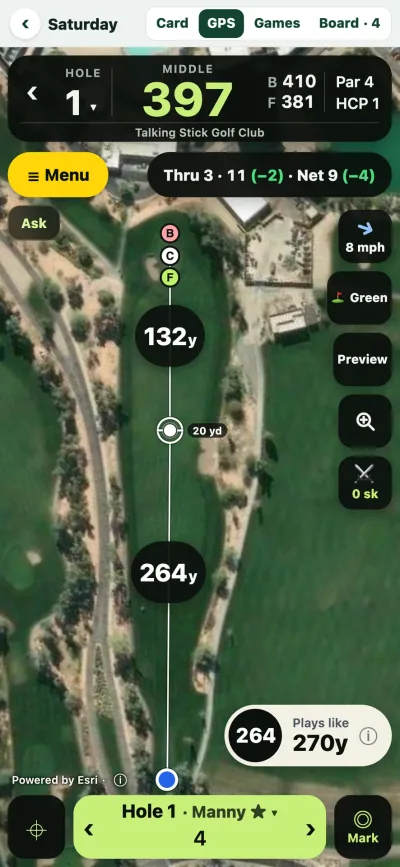
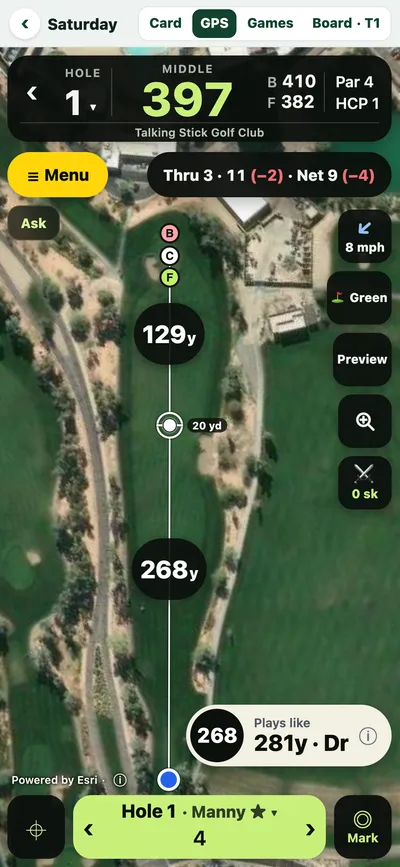
site pictures: 2.0.8 captures replace the old green slope and the green under-par pills (gps, hazards, plays-like, green-size, ask-caddie, group-scoring; ADVISOR-20261115-1643)
Seven cards on hardpan-home.html showed pre-2.0.8 screens: the old blocky slope with the target ring over the arrows, and
under-par to-par numbers in green. Under par is red (#ff6b76 in the GPS pill), even / over par the pill's own colour.
- green-slope, green-size: the 2.0.8 (1) store shoot raws (iPhone Simulator; Papago 10 from 55 with the smooth slope and
  the ring hidden; Papago 14 with the green size line, Slope on), resized to 940 / 400.
- gps, hazards, plays-like, ask-caddie, group-scoring: the same scenes as the Nov 13 pictures, rendered by the 2.0.8 tree
  (release-208 fa176a69) in headless Chrome 390x844 @3x with the Chrome tests' stubs (0 writes); hazards from the real
  GolfAPI record for Talking Stick Piipaash.
- Same file names, same widths and pixel sizes; alt texts say what the pictures show; media/screens/manifest.json entries
  updated with the old entry kept under "previous".
- web_e_features_test.js: the hazards / ask-caddie provenance pin accepts release-208 (re-pinned, dated).
Tests (final files): hardpan_home_52a 7/0, marketing_home 46/0, web_d_homepage_root 112/0, web_e_features 24/0,
web_e_features_chrome 6/0, web_d_clip_hold_chrome 3/0, web_d_returning_visitor_chrome 4/0.

diff --git a/hardpan-home.html b/hardpan-home.html
@@ -332,14 +332,14 @@
     <div class="grp" id="g-new">
         <div class="ghd"><h2>New in 2.0.7</h2><span class="gn">4 &middot; swipe &rarr;</span><span class="arrows"><button type="button" class="ga" data-dir="-1" aria-label="New in 2.0.7: earlier cards">&lsaquo;</button><button type="button" class="ga" data-dir="1" aria-label="New in 2.0.7: more cards">&rsaquo;</button></span></div>
         <p class="gln">What changed in this update.</p>
-        <ul class="row" aria-label="New in 2.0.7 features"><li class="fc" id="f-round-tabs" data-key="round-tabs"><div class="cap"><span class="eb">ROUND TABS</span><h3>Card, GPS, Games, Board.</h3><p>Four tabs on top of every round. The map opens on the whole hole.</p></div><button type="button" class="ph" data-open="round-tabs" aria-label="See Card, GPS, Games, Board full screen"><span class="s"><img src="/media/screens/round-tabs-400.webp" srcset="/media/screens/round-tabs-400.webp 400w, /media/screens/round-tabs-940.webp 940w" sizes="(max-width:700px) 200px, 206px" width="940" height="2040" loading="lazy" decoding="async" alt="The GPS map on hole 2 at Papago, opened on the whole hole with the tee and the green both on screen: 380 to the middle, and the Card, GPS, Games and Board tabs on top."></span></button></li><li class="fc" id="f-green-slope" data-key="green-slope"><div class="cap"><span class="eb">GREEN SLOPE</span><h3>Read the green.</h3><p>Shading, contours and downhill arrows on the map, with the Slope switch under Ask.</p></div><button type="button" class="ph" data-open="green-slope" aria-label="See Read the green full screen"><span class="s"><img src="/media/screens/green-slope-400.webp" srcset="/media/screens/green-slope-400.webp 400w, /media/screens/green-slope-940.webp 940w" sizes="(max-width:700px) 200px, 206px" width="940" height="2040" loading="lazy" decoding="async" alt="Papago hole 10 near the green with Slope on: shading and contours on the green, arrows that run downhill, 55 to the middle, and the Slope switch under Ask."></span></button></li><li class="fc" id="f-green-size" data-key="green-size"><div class="cap"><span class="eb">GREEN SIZE</span><h3>How big is the green?</h3><p>Deep and wide along your line of play, the same from the tee or the fairway.</p></div><button type="button" class="ph" data-open="green-size" aria-label="See How big is the green? full screen"><span class="s"><img src="/media/screens/green-size-400.webp" srcset="/media/screens/green-size-400.webp 400w, /media/screens/green-size-940.webp 940w" sizes="(max-width:700px) 200px, 206px" width="940" height="2040" loading="lazy" decoding="async" alt="Papago hole 14, 149 to the middle: the line Green 34 yds deep and 27 yds wide on the map, and Plays like 156 with an 8-iron."></span></button></li><li class="fc" id="f-team-card" data-key="team-card"><div class="cap"><span class="eb">TEAM CARD</span><h3>Your team card, in the app.</h3><p>Card, Board and GPS on one card. Scan your team’s QR right in HardPan.</p></div><button type="button" class="ph" data-open="team-card" aria-label="See Your team card, in the app full screen"><span class="s"><img src="/media/screens/team-card-400.webp" srcset="/media/screens/team-card-400.webp 400w, /media/screens/team-card-940.webp 940w" sizes="(max-width:700px) 200px, 206px" width="940" height="2040" loading="lazy" decoding="async" alt="The Desert Classic team card for Team 4 in the app: the Card, Board and GPS switch, Hole 8 · Par 5 next to play, the team score with minus and plus, and Save · Next hole."></span></button></li></ul>
+        <ul class="row" aria-label="New in 2.0.7 features"><li class="fc" id="f-round-tabs" data-key="round-tabs"><div class="cap"><span class="eb">ROUND TABS</span><h3>Card, GPS, Games, Board.</h3><p>Four tabs on top of every round. The map opens on the whole hole.</p></div><button type="button" class="ph" data-open="round-tabs" aria-label="See Card, GPS, Games, Board full screen"><span class="s"><img src="/media/screens/round-tabs-400.webp" srcset="/media/screens/round-tabs-400.webp 400w, /media/screens/round-tabs-940.webp 940w" sizes="(max-width:700px) 200px, 206px" width="940" height="2040" loading="lazy" decoding="async" alt="The GPS map on hole 2 at Papago, opened on the whole hole with the tee and the green both on screen: 380 to the middle, and the Card, GPS, Games and Board tabs on top."></span></button></li><li class="fc" id="f-green-slope" data-key="green-slope"><div class="cap"><span class="eb">GREEN SLOPE</span><h3>Read the green.</h3><p>Shading, contours and downhill arrows on the map, with the Slope switch under Ask.</p></div><button type="button" class="ph" data-open="green-slope" aria-label="See Read the green full screen"><span class="s"><img src="/media/screens/green-slope-400.webp" srcset="/media/screens/green-slope-400.webp 400w, /media/screens/green-slope-940.webp 940w" sizes="(max-width:700px) 200px, 206px" width="940" height="2040" loading="lazy" decoding="async" alt="Papago hole 10, 55 to the middle, with Slope on: smooth shading, contour lines and downhill arrows over the green, the target ring hidden, the lidar 2020–21 tag and the slope key under the Slope switch, and Thru 9 · 38 (+2) · Net 35 (−1) with the under-par number in red."></span></button></li><li class="fc" id="f-green-size" data-key="green-size"><div class="cap"><span class="eb">GREEN SIZE</span><h3>How big is the green?</h3><p>Deep and wide along your line of play, the same from the tee or the fairway.</p></div><button type="button" class="ph" data-open="green-size" aria-label="See How big is the green? full screen"><span class="s"><img src="/media/screens/green-size-400.webp" srcset="/media/screens/green-size-400.webp 400w, /media/screens/green-size-940.webp 940w" sizes="(max-width:700px) 200px, 206px" width="940" height="2040" loading="lazy" decoding="async" alt="Papago hole 14, 149 to the middle: the line Green 34 yds deep and 27 yds wide on the map, Plays like 153 with an 8-iron, the club chips, Slope on, and Net 51 (−1) in red."></span></button></li><li class="fc" id="f-team-card" data-key="team-card"><div class="cap"><span class="eb">TEAM CARD</span><h3>Your team card, in the app.</h3><p>Card, Board and GPS on one card. Scan your team’s QR right in HardPan.</p></div><button type="button" class="ph" data-open="team-card" aria-label="See Your team card, in the app full screen"><span class="s"><img src="/media/screens/team-card-400.webp" srcset="/media/screens/team-card-400.webp 400w, /media/screens/team-card-940.webp 940w" sizes="(max-width:700px) 200px, 206px" width="940" height="2040" loading="lazy" decoding="async" alt="The Desert Classic team card for Team 4 in the app: the Card, Board and GPS switch, Hole 8 · Par 5 next to play, the team score with minus and plus, and Save · Next hole."></span></button></li></ul>
         <div class="dots" aria-hidden="true"><i class="on"></i><i></i><i></i><i></i></div>
         <ul class="new207" aria-label="Also new in 2.0.7"><li><b>Why?</b> on the suggested fair game: the strokes, the handicaps and the game it is built on.</li><li><b>Undo</b> on the scorecard, right after each score.</li><li>A <b>Season board</b> for your weekly group, on Home.</li><li><b>Play in this event</b> on the card of an event you run.</li><li>The Home card names the course and the next hole.</li></ul>
     </div>
     <div class="grp" id="g-play">
         <div class="ghd"><h2>Play</h2><span class="gn">6 &middot; swipe &rarr;</span><span class="arrows"><button type="button" class="ga" data-dir="-1" aria-label="Play: earlier cards">&lsaquo;</button><button type="button" class="ga" data-dir="1" aria-label="Play: more cards">&rsaquo;</button></span></div>
         <p class="gln">GPS that knows the course, and your clubs.</p>
-        <ul class="row" aria-label="Play features"><li class="fc" id="f-gps" data-key="gps"><div class="cap"><span class="eb">GPS</span> <span class="clipchip">&#9654; clip 0:03</span><h3>Every yard. Every hole.</h3><p>Front, middle and back of every green on a real satellite map.</p></div><button type="button" class="ph" data-open="gps" aria-label="See Every yard. Every hole full screen"><span class="s clipslot"><img src="/media/screens/gps-400.webp" srcset="/media/screens/gps-400.webp 400w, /media/screens/gps-886.webp 886w" sizes="(max-width:700px) 200px, 206px" width="886" height="1920" loading="lazy" decoding="async" alt="The HardPan GPS map on hole 1 at Talking Stick, the whole hole from the tee: 397 yards to the middle of the green with the back and front numbers, and Card, GPS, Games and Board tabs on top."><video muted playsinline preload="none" data-src="/media/clips/gps.mp4" aria-hidden="true"></video><span class="cb">&#9654; 0:03</span></span></button></li><li class="fc" id="f-plays-like" data-key="plays-like"><div class="cap"><span class="eb">PLAYS LIKE</span><h3>Hit the number it plays.</h3><p>Wind and elevation in one yardage, plus an aim tip from your own misses.</p></div><button type="button" class="ph" data-open="plays-like" aria-label="See Hit the number it plays full screen"><span class="s"><img src="/media/screens/plays-like-400.webp" srcset="/media/screens/plays-like-400.webp 400w, /media/screens/plays-like-940.webp 940w" sizes="(max-width:700px) 200px, 206px" width="940" height="2040" loading="lazy" decoding="async" alt="The GPS map on hole 2 at Dobson Ranch: 140 to the middle, Plays like 140 with a 9-iron and the aim tip 8 yards left, the green’s size line, and the Slope switch under Ask."></span></button></li><li class="fc" id="f-hazards" data-key="hazards"><div class="cap"><span class="eb">HAZARDS</span><h3>Know what you can carry.</h3><p>Reach and carry for every bunker, and where to lay up, from where you stand.</p></div><button type="button" class="ph" data-open="hazards" aria-label="See Know what you can carry full screen"><span class="s"><img src="/media/screens/hazards-400.webp" srcset="/media/screens/hazards-400.webp 400w, /media/screens/hazards-1170.webp 1170w" sizes="(max-width:700px) 200px, 206px" width="1170" height="2532" loading="lazy" decoding="async" alt="The Hazards sheet on hole 1 at Talking Stick, over the GPS map: reach and carry yards for the bunker left and the water right, and lay-up distances with a club for each."></span></button></li><li class="fc" id="f-best-miss" data-key="best-miss"><div class="cap"><span class="eb">BEST MISS</span><h3>Miss on the right side.</h3><p>Green slope from lidar, and the safe side to miss.</p></div><button type="button" class="ph" data-open="best-miss" aria-label="See Miss on the right side full screen"><span class="s"><img src="/media/screens/best-miss-400.webp" srcset="/media/screens/best-miss-400.webp 400w, /media/screens/best-miss-940.webp 940w" sizes="(max-width:700px) 200px, 206px" width="940" height="2040" loading="lazy" decoding="async" alt="The GPS map on Papago’s first green with Slope on: the green’s slope arrows and shading, 41 to the middle, carry bunker 43, and Best miss: right."></span></button></li><li class="fc" id="f-offline" data-key="offline"><div class="cap"><span class="eb">OFFLINE MAPS</span><h3>No signal? Still every yard.</h3><p>Save a course before you go. The map works with zero bars.</p></div><button type="button" class="ph" data-open="offline" aria-label="See No signal? Still every yard full screen"><span class="s"><img src="/media/screens/offline-400.webp" srcset="/media/screens/offline-400.webp 400w, /media/screens/offline-780.webp 780w" sizes="(max-width:700px) 200px, 206px" width="780" height="1704" loading="lazy" decoding="async" alt="The course picker with a Download for offline button for Dobson Ranch Golf Course."></span></button></li><li class="fc" id="f-bag" data-key="my-bag"><div class="cap"><span class="eb">MY BAG</span><h3>Your real carries.</h3><p>Type your yardages once. HardPan picks the club from them.</p></div><button type="button" class="ph" data-open="my-bag" aria-label="See Your real carries full screen"><span class="s"><img src="/media/screens/my-bag-400.webp" srcset="/media/screens/my-bag-400.webp 400w, /media/screens/my-bag-1170.webp 1170w" sizes="(max-width:700px) 200px, 206px" width="1170" height="2532" loading="lazy" decoding="async" alt="My bag for Sam: a carry yardage for each club, Driver 245, 3-wood 225, 5-wood 210, with a switch to keep each club in the bag and Type my carries."></span></button></li></ul>
+        <ul class="row" aria-label="Play features"><li class="fc" id="f-gps" data-key="gps"><div class="cap"><span class="eb">GPS</span> <span class="clipchip">&#9654; clip 0:03</span><h3>Every yard. Every hole.</h3><p>Front, middle and back of every green on a real satellite map.</p></div><button type="button" class="ph" data-open="gps" aria-label="See Every yard. Every hole full screen"><span class="s clipslot"><img src="/media/screens/gps-400.webp" srcset="/media/screens/gps-400.webp 400w, /media/screens/gps-886.webp 886w" sizes="(max-width:700px) 200px, 206px" width="886" height="1920" loading="lazy" decoding="async" alt="The HardPan GPS map on hole 1 at Talking Stick, the whole hole from the tee: 397 yards to the middle of the green with the back and front numbers, Card, GPS, Games and Board tabs on top, and Thru 3 · 11 (−2) · Net 9 (−4) with the under-par numbers in red."><video muted playsinline preload="none" data-src="/media/clips/gps.mp4" aria-hidden="true"></video><span class="cb">&#9654; 0:03</span></span></button></li><li class="fc" id="f-plays-like" data-key="plays-like"><div class="cap"><span class="eb">PLAYS LIKE</span><h3>Hit the number it plays.</h3><p>Wind and elevation in one yardage, plus an aim tip from your own misses.</p></div><button type="button" class="ph" data-open="plays-like" aria-label="See Hit the number it plays full screen"><span class="s"><img src="/media/screens/plays-like-400.webp" srcset="/media/screens/plays-like-400.webp 400w, /media/screens/plays-like-940.webp 940w" sizes="(max-width:700px) 200px, 206px" width="940" height="2040" loading="lazy" decoding="async" alt="The GPS map on hole 2 at Dobson Ranch: 140 to the middle, Plays like 141 with a 9-iron and the aim tip 8 yards left, the 9i, PW and GW club chips, the green’s size line, the Slope switch under Ask, and Thru 1 · 4 (−1) · Net 3 (−2) with the under-par numbers in red."></span></button></li><li class="fc" id="f-hazards" data-key="hazards"><div class="cap"><span class="eb">HAZARDS</span><h3>Know what you can carry.</h3><p>Reach and carry for every bunker, and where to lay up, from where you stand.</p></div><button type="button" class="ph" data-open="hazards" aria-label="See Know what you can carry full screen"><span class="s"><img src="/media/screens/hazards-400.webp" srcset="/media/screens/hazards-400.webp 400w, /media/screens/hazards-1170.webp 1170w" sizes="(max-width:700px) 200px, 206px" width="1170" height="2532" loading="lazy" decoding="async" alt="The Hazards sheet on hole 1 at Talking Stick, over the GPS map: the fairway bunker right with its reach and carry yards from the tee, and lay-up distances with a club for each; Thru 3 · 11 (−2) · Net 9 (−4) with the under-par numbers in red."></span></button></li><li class="fc" id="f-best-miss" data-key="best-miss"><div class="cap"><span class="eb">BEST MISS</span><h3>Miss on the right side.</h3><p>Green slope from lidar, and the safe side to miss.</p></div><button type="button" class="ph" data-open="best-miss" aria-label="See Miss on the right side full screen"><span class="s"><img src="/media/screens/best-miss-400.webp" srcset="/media/screens/best-miss-400.webp 400w, /media/screens/best-miss-940.webp 940w" sizes="(max-width:700px) 200px, 206px" width="940" height="2040" loading="lazy" decoding="async" alt="The GPS map on Papago’s first green with Slope on: the green’s slope arrows and shading, 41 to the middle, carry bunker 43, and Best miss: right."></span></button></li><li class="fc" id="f-offline" data-key="offline"><div class="cap"><span class="eb">OFFLINE MAPS</span><h3>No signal? Still every yard.</h3><p>Save a course before you go. The map works with zero bars.</p></div><button type="button" class="ph" data-open="offline" aria-label="See No signal? Still every yard full screen"><span class="s"><img src="/media/screens/offline-400.webp" srcset="/media/screens/offline-400.webp 400w, /media/screens/offline-780.webp 780w" sizes="(max-width:700px) 200px, 206px" width="780" height="1704" loading="lazy" decoding="async" alt="The course picker with a Download for offline button for Dobson Ranch Golf Course."></span></button></li><li class="fc" id="f-bag" data-key="my-bag"><div class="cap"><span class="eb">MY BAG</span><h3>Your real carries.</h3><p>Type your yardages once. HardPan picks the club from them.</p></div><button type="button" class="ph" data-open="my-bag" aria-label="See Your real carries full screen"><span class="s"><img src="/media/screens/my-bag-400.webp" srcset="/media/screens/my-bag-400.webp 400w, /media/screens/my-bag-1170.webp 1170w" sizes="(max-width:700px) 200px, 206px" width="1170" height="2532" loading="lazy" decoding="async" alt="My bag for Sam: a carry yardage for each club, Driver 245, 3-wood 225, 5-wood 210, with a switch to keep each club in the bag and Type my carries."></span></button></li></ul>
         <div class="dots" aria-hidden="true"><i class="on"></i><i></i><i></i><i></i><i></i><i></i></div>
     </div>
     <div class="wrap trywrap"><section class="try" id="try-gps" aria-labelledby="try-gps-h">
@@ -368,7 +368,7 @@
     <div class="grp" id="g-games">
         <div class="ghd"><h2>Games</h2><span class="gn">6 &middot; swipe &rarr;</span><span class="arrows"><button type="button" class="ga" data-dir="-1" aria-label="Games: earlier cards">&lsaquo;</button><button type="button" class="ga" data-dir="1" aria-label="Games: more cards">&rsaquo;</button></span></div>
         <p class="gln">Any game your group plays, scored as you go.</p>
-        <ul class="row" aria-label="Games features"><li class="fc" id="f-say" data-key="set-up-card"><div class="cap"><span class="eb">JUST SAY IT</span><h3>Set up the game in one sentence.</h3><p>Type it the way you’d say it. HardPan fills in one card. Tap Start.</p></div><button type="button" class="ph" data-open="set-up-card" aria-label="See Set up the game in one sentence full screen"><span class="s"><img src="/media/screens/set-up-card-400.webp" srcset="/media/screens/set-up-card-400.webp 400w, /media/screens/set-up-card-886.webp 886w" sizes="(max-width:700px) 200px, 206px" width="886" height="1920" loading="lazy" decoding="async" alt="The setup card HardPan made from one sentence: 2 v 2 Best Ball, Sam and Josh against Bob and Paul, scored net from hole 4."></span></button></li><li class="fc" id="f-allgames" data-key="add-a-game"><div class="cap"><span class="eb">ALL THE GAMES</span> <span class="clipchip">&#9654; clip 0:04</span><h3>Every game your group plays.</h3><p>Match play, Nassau, Hi-Lo, Vegas, Best ball, Scramble, Skins and more.</p></div><button type="button" class="ph" data-open="add-a-game" aria-label="See Every game your group plays full screen"><span class="s clipslot"><img src="/media/screens/add-a-game-400.webp" srcset="/media/screens/add-a-game-400.webp 400w, /media/screens/add-a-game-886.webp 886w" sizes="(max-width:700px) 200px, 206px" width="886" height="1920" loading="lazy" decoding="async" alt="Add a game: a box to describe the game, and the list of games, Match play, Nassau, Hi-Lo, Stroke play, Vegas, Best ball and Scramble."><video muted playsinline preload="none" data-src="/media/clips/add-a-game.mp4" aria-hidden="true"></video><span class="cb">&#9654; 0:04</span></span></button></li><li class="fc" id="f-group" data-key="group-scoring"><div class="cap"><span class="eb">GROUP SCORING</span> <span class="clipchip">&#9654; clip 0:03</span><h3>Score the whole group in one tap.</h3><p>Everyone starts at par. Tap − or +, then Save. Undo if you slip.</p></div><button type="button" class="ph" data-open="group-scoring" aria-label="See Score the whole group in one tap full screen"><span class="s clipslot"><img src="/media/screens/group-scoring-400.webp" srcset="/media/screens/group-scoring-400.webp 400w, /media/screens/group-scoring-886.webp 886w" sizes="(max-width:700px) 200px, 206px" width="886" height="1920" loading="lazy" decoding="async" alt="The score sheet for hole 4 over the map, Card tab on top: Manny, Josh, Bob and Paul through 3, Josh’s 4 just entered, an Undo chip and the 1 to 7+ keypad."><video muted playsinline preload="none" data-src="/media/clips/group-scoring.mp4" aria-hidden="true"></video><span class="cb">&#9654; 0:03</span></span></button></li><li class="fc" id="f-games" data-key="live-games"><div class="cap"><span class="eb">LIVE GAMES</span> <span class="clipchip">&#9654; clip 0:03</span><h3>Every game, as it happens.</h3><p>Matches update hole by hole for everyone in the round.</p></div><button type="button" class="ph" data-open="live-games" aria-label="See Every game, as it happens full screen"><span class="s clipslot"><img src="/media/screens/live-games-400.webp" srcset="/media/screens/live-games-400.webp 400w, /media/screens/live-games-886.webp 886w" sizes="(max-width:700px) 200px, 206px" width="886" height="1920" loading="lazy" decoding="async" alt="The Games sheet over the map, Games tab on top: Manny and Josh against Bob and Paul in a live Nassau, all square through 3, and the round’s skins with who has one so far."><video muted playsinline preload="none" data-src="/media/clips/games-live-board.mp4" aria-hidden="true"></video><span class="cb">&#9654; 0:03</span></span></button></li><li class="fc" id="f-results" data-key="results"><div class="cap"><span class="eb">RESULTS</span> <span class="clipchip">&#9654; clip 0:04</span><h3>The final word, ready to share.</h3><p>Net and gross, and every game’s result, in one receipt.</p></div><button type="button" class="ph" data-open="results" aria-label="See The final word, ready to share full screen"><span class="s clipslot"><img src="/media/screens/results-400.webp" srcset="/media/screens/results-400.webp 400w, /media/screens/results-886.webp 886w" sizes="(max-width:700px) 200px, 206px" width="886" height="1920" loading="lazy" decoding="async" alt="The round receipt: final scores out, in, gross and net for four golfers, then the skins results."><video muted playsinline preload="none" data-src="/media/clips/results.mp4" aria-hidden="true"></video><span class="cb">&#9654; 0:04</span></span></button></li><li class="fc" id="f-settle" data-key="settle"><div class="cap"><span class="eb">SETTLE UP</span><h3>Who owes who, done.</h3><p>HardPan does the math. Tick each line off when it’s squared.</p></div><button type="button" class="ph" data-open="settle" aria-label="See Who owes who, done full screen"><span class="s fit" style="background:#f2f5ef"><img src="/media/screens/settle-400.webp" srcset="/media/screens/settle-400.webp 400w, /media/screens/settle-786.webp 786w" sizes="(max-width:700px) 200px, 206px" width="786" height="900" loading="lazy" decoding="async" alt="The Settle up card on the Round Receipt: the one line left between Josh and you, with Request on Venmo and Mark done, and your own Venmo or Cash App handle below it."></span></button></li></ul>
+        <ul class="row" aria-label="Games features"><li class="fc" id="f-say" data-key="set-up-card"><div class="cap"><span class="eb">JUST SAY IT</span><h3>Set up the game in one sentence.</h3><p>Type it the way you’d say it. HardPan fills in one card. Tap Start.</p></div><button type="button" class="ph" data-open="set-up-card" aria-label="See Set up the game in one sentence full screen"><span class="s"><img src="/media/screens/set-up-card-400.webp" srcset="/media/screens/set-up-card-400.webp 400w, /media/screens/set-up-card-886.webp 886w" sizes="(max-width:700px) 200px, 206px" width="886" height="1920" loading="lazy" decoding="async" alt="The setup card HardPan made from one sentence: 2 v 2 Best Ball, Sam and Josh against Bob and Paul, scored net from hole 4."></span></button></li><li class="fc" id="f-allgames" data-key="add-a-game"><div class="cap"><span class="eb">ALL THE GAMES</span> <span class="clipchip">&#9654; clip 0:04</span><h3>Every game your group plays.</h3><p>Match play, Nassau, Hi-Lo, Vegas, Best ball, Scramble, Skins and more.</p></div><button type="button" class="ph" data-open="add-a-game" aria-label="See Every game your group plays full screen"><span class="s clipslot"><img src="/media/screens/add-a-game-400.webp" srcset="/media/screens/add-a-game-400.webp 400w, /media/screens/add-a-game-886.webp 886w" sizes="(max-width:700px) 200px, 206px" width="886" height="1920" loading="lazy" decoding="async" alt="Add a game: a box to describe the game, and the list of games, Match play, Nassau, Hi-Lo, Stroke play, Vegas, Best ball and Scramble."><video muted playsinline preload="none" data-src="/media/clips/add-a-game.mp4" aria-hidden="true"></video><span class="cb">&#9654; 0:04</span></span></button></li><li class="fc" id="f-group" data-key="group-scoring"><div class="cap"><span class="eb">GROUP SCORING</span> <span class="clipchip">&#9654; clip 0:03</span><h3>Score the whole group in one tap.</h3><p>Everyone starts at par. Tap − or +, then Save. Undo if you slip.</p></div><button type="button" class="ph" data-open="group-scoring" aria-label="See Score the whole group in one tap full screen"><span class="s clipslot"><img src="/media/screens/group-scoring-400.webp" srcset="/media/screens/group-scoring-400.webp 400w, /media/screens/group-scoring-886.webp 886w" sizes="(max-width:700px) 200px, 206px" width="886" height="1920" loading="lazy" decoding="async" alt="The score sheet for hole 4 over the map, Card tab on top: Manny, Josh, Bob and Paul through 3, Josh’s 4 just entered, an Undo chip and the 1 to 7+ keypad; the birdies in circles, Thru 3 · 11 (−2) · Net 9 (−4) with the under-par numbers in red."><video muted playsinline preload="none" data-src="/media/clips/group-scoring.mp4" aria-hidden="true"></video><span class="cb">&#9654; 0:03</span></span></button></li><li class="fc" id="f-games" data-key="live-games"><div class="cap"><span class="eb">LIVE GAMES</span> <span class="clipchip">&#9654; clip 0:03</span><h3>Every game, as it happens.</h3><p>Matches update hole by hole for everyone in the round.</p></div><button type="button" class="ph" data-open="live-games" aria-label="See Every game, as it happens full screen"><span class="s clipslot"><img src="/media/screens/live-games-400.webp" srcset="/media/screens/live-games-400.webp 400w, /media/screens/live-games-886.webp 886w" sizes="(max-width:700px) 200px, 206px" width="886" height="1920" loading="lazy" decoding="async" alt="The Games sheet over the map, Games tab on top: Manny and Josh against Bob and Paul in a live Nassau, all square through 3, and the round’s skins with who has one so far."><video muted playsinline preload="none" data-src="/media/clips/games-live-board.mp4" aria-hidden="true"></video><span class="cb">&#9654; 0:03</span></span></button></li><li class="fc" id="f-results" data-key="results"><div class="cap"><span class="eb">RESULTS</span> <span class="clipchip">&#9654; clip 0:04</span><h3>The final word, ready to share.</h3><p>Net and gross, and every game’s result, in one receipt.</p></div><button type="button" class="ph" data-open="results" aria-label="See The final word, ready to share full screen"><span class="s clipslot"><img src="/media/screens/results-400.webp" srcset="/media/screens/results-400.webp 400w, /media/screens/results-886.webp 886w" sizes="(max-width:700px) 200px, 206px" width="886" height="1920" loading="lazy" decoding="async" alt="The round receipt: final scores out, in, gross and net for four golfers, then the skins results."><video muted playsinline preload="none" data-src="/media/clips/results.mp4" aria-hidden="true"></video><span class="cb">&#9654; 0:04</span></span></button></li><li class="fc" id="f-settle" data-key="settle"><div class="cap"><span class="eb">SETTLE UP</span><h3>Who owes who, done.</h3><p>HardPan does the math. Tick each line off when it’s squared.</p></div><button type="button" class="ph" data-open="settle" aria-label="See Who owes who, done full screen"><span class="s fit" style="background:#f2f5ef"><img src="/media/screens/settle-400.webp" srcset="/media/screens/settle-400.webp 400w, /media/screens/settle-786.webp 786w" sizes="(max-width:700px) 200px, 206px" width="786" height="900" loading="lazy" decoding="async" alt="The Settle up card on the Round Receipt: the one line left between Josh and you, with Request on Venmo and Mark done, and your own Venmo or Cash App handle below it."></span></button></li></ul>
         <div class="dots" aria-hidden="true"><i class="on"></i><i></i><i></i><i></i><i></i><i></i></div>
     </div>
     <div class="wrap trywrap"><section class="try" id="try-say" aria-labelledby="try-say-h">
@@ -400,7 +400,7 @@
     <div class="grp" id="g-better">
         <div class="ghd"><h2>Get better</h2><span class="gn">3 &middot; swipe &rarr;</span><span class="arrows"><button type="button" class="ga" data-dir="-1" aria-label="Get better: earlier cards">&lsaquo;</button><button type="button" class="ga" data-dir="1" aria-label="Get better: more cards">&rsaquo;</button></span></div>
         <p class="gln">See where your shots go, then practice that.</p>
-        <ul class="row" aria-label="Get better features"><li class="fc" id="f-strokes-gained" data-key="strokes-gained"><div class="cap"><span class="eb">STROKES GAINED</span><h3>See where shots go.</h3><p>Strokes Gained by area, and a practice card for what cost you most.</p></div><button type="button" class="ph" data-open="strokes-gained" aria-label="See See where shots go full screen"><span class="s"><img src="/media/screens/strokes-gained-400.webp" srcset="/media/screens/strokes-gained-400.webp 400w, /media/screens/strokes-gained-940.webp 940w" sizes="(max-width:700px) 200px, 206px" width="940" height="2040" loading="lazy" decoding="async" alt="My stats: a practice card for putting, and Strokes Gained against a 10 handicap, plus 1.9 shots a round."></span></button></li><li class="fc" id="f-range" data-key="range"><div class="cap"><span class="eb">RANGE</span><h3>Practice what costs you.</h3><p>Today’s drill from your last round, and every ball you mark.</p></div><button type="button" class="ph" data-open="range" aria-label="See Practice what costs you full screen"><span class="s"><img src="/media/screens/range-400.webp" srcset="/media/screens/range-400.webp 400w, /media/screens/range-1170.webp 1170w" sizes="(max-width:700px) 200px, 206px" width="1170" height="2532" loading="lazy" decoding="async" alt="The Range: today’s drill, an approach distance ladder, club buttons, Mark the ball, and this session’s 7-iron shots with their median carry."></span></button></li><li class="fc" id="f-ask-caddie" data-key="ask-caddie"><div class="cap"><span class="eb">ASK CADDIE</span><h3>Ask what it plays.</h3><p>What it plays, what club, and what you hit here last time.</p></div><button type="button" class="ph" data-open="ask-caddie" aria-label="See Ask what it plays full screen"><span class="s"><img src="/media/screens/ask-caddie-400.webp" srcset="/media/screens/ask-caddie-400.webp 400w, /media/screens/ask-caddie-1170.webp 1170w" sizes="(max-width:700px) 200px, 206px" width="1170" height="2532" loading="lazy" decoding="async" alt="Ask over the satellite map on Talking Stick hole 1, 160 yards out: What club?, Last time here?, Best miss?, and the answer 8-iron: your 168 yds carry for 153 yds plays-like."></span></button></li></ul>
+        <ul class="row" aria-label="Get better features"><li class="fc" id="f-strokes-gained" data-key="strokes-gained"><div class="cap"><span class="eb">STROKES GAINED</span><h3>See where shots go.</h3><p>Strokes Gained by area, and a practice card for what cost you most.</p></div><button type="button" class="ph" data-open="strokes-gained" aria-label="See See where shots go full screen"><span class="s"><img src="/media/screens/strokes-gained-400.webp" srcset="/media/screens/strokes-gained-400.webp 400w, /media/screens/strokes-gained-940.webp 940w" sizes="(max-width:700px) 200px, 206px" width="940" height="2040" loading="lazy" decoding="async" alt="My stats: a practice card for putting, and Strokes Gained against a 10 handicap, plus 1.9 shots a round."></span></button></li><li class="fc" id="f-range" data-key="range"><div class="cap"><span class="eb">RANGE</span><h3>Practice what costs you.</h3><p>Today’s drill from your last round, and every ball you mark.</p></div><button type="button" class="ph" data-open="range" aria-label="See Practice what costs you full screen"><span class="s"><img src="/media/screens/range-400.webp" srcset="/media/screens/range-400.webp 400w, /media/screens/range-1170.webp 1170w" sizes="(max-width:700px) 200px, 206px" width="1170" height="2532" loading="lazy" decoding="async" alt="The Range: today’s drill, an approach distance ladder, club buttons, Mark the ball, and this session’s 7-iron shots with their median carry."></span></button></li><li class="fc" id="f-ask-caddie" data-key="ask-caddie"><div class="cap"><span class="eb">ASK CADDIE</span><h3>Ask what it plays.</h3><p>What it plays, what club, and what you hit here last time.</p></div><button type="button" class="ph" data-open="ask-caddie" aria-label="See Ask what it plays full screen"><span class="s"><img src="/media/screens/ask-caddie-400.webp" srcset="/media/screens/ask-caddie-400.webp 400w, /media/screens/ask-caddie-1170.webp 1170w" sizes="(max-width:700px) 200px, 206px" width="1170" height="2532" loading="lazy" decoding="async" alt="Ask over the satellite map on Talking Stick hole 1, 160 yards out: What club?, Last time here?, Best miss?, the answer 8-iron: your 168 yds carry for 168 yds plays-like, and Thru 3 · 11 (−2) · Net 9 (−4) with the under-par numbers in red."></span></button></li></ul>
         <div class="dots" aria-hidden="true"><i class="on"></i><i></i><i></i></div>
     </div>
 </section>

diff --git a/web_e_features_test.js b/web_e_features_test.js
@@ -183,7 +183,9 @@ describe('1. the 25 cards', () => {
             const m = manifest.screens.find((s) => s.key === k);
             // RE-PINNED 2026-11-13 (website pics vs iOS 2.0.7, Manny by phone relay ADVISOR-1246): hazards and
             // ask-caddie are now 2.0.7 captures (release-207 895da9fc); range, my-bag, weekly-code stay 205.
-            assert.ok(m && /release-20[567]/.test(m.captured) && m.recaptured, k + ': the manifest does not say where it came from');
+            // RE-PINNED 2026-11-15 (web-208-pics, ADVISOR-20261115-1643): hazards and ask-caddie are 2.0.8 captures
+            // (release-208 fa176a69, under par in red); the old entry stays under "previous".
+            assert.ok(m && /release-20[5678]/.test(m.captured) && m.recaptured, k + ': the manifest does not say where it came from');
             assert.deepEqual(m.files, ['/media/screens/' + k + '-400.webp', '/media/screens/' + k + '-1170.webp']);
         });
         manifest.screens.forEach((s) => s.files.forEach((f) => assert.ok(exists(f.slice(1)), f + ' is missing')));
